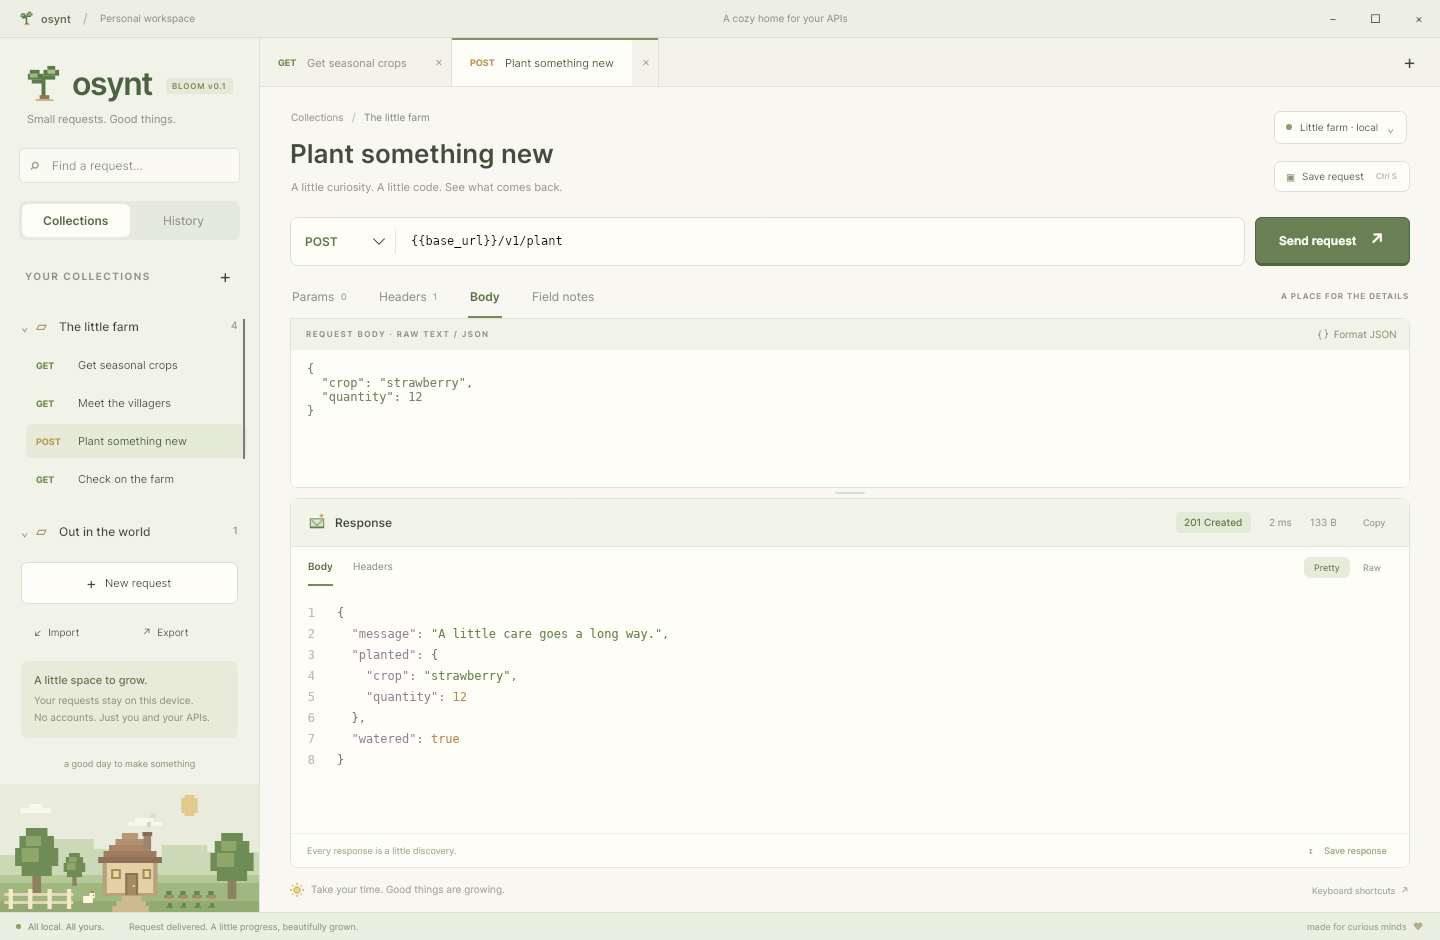
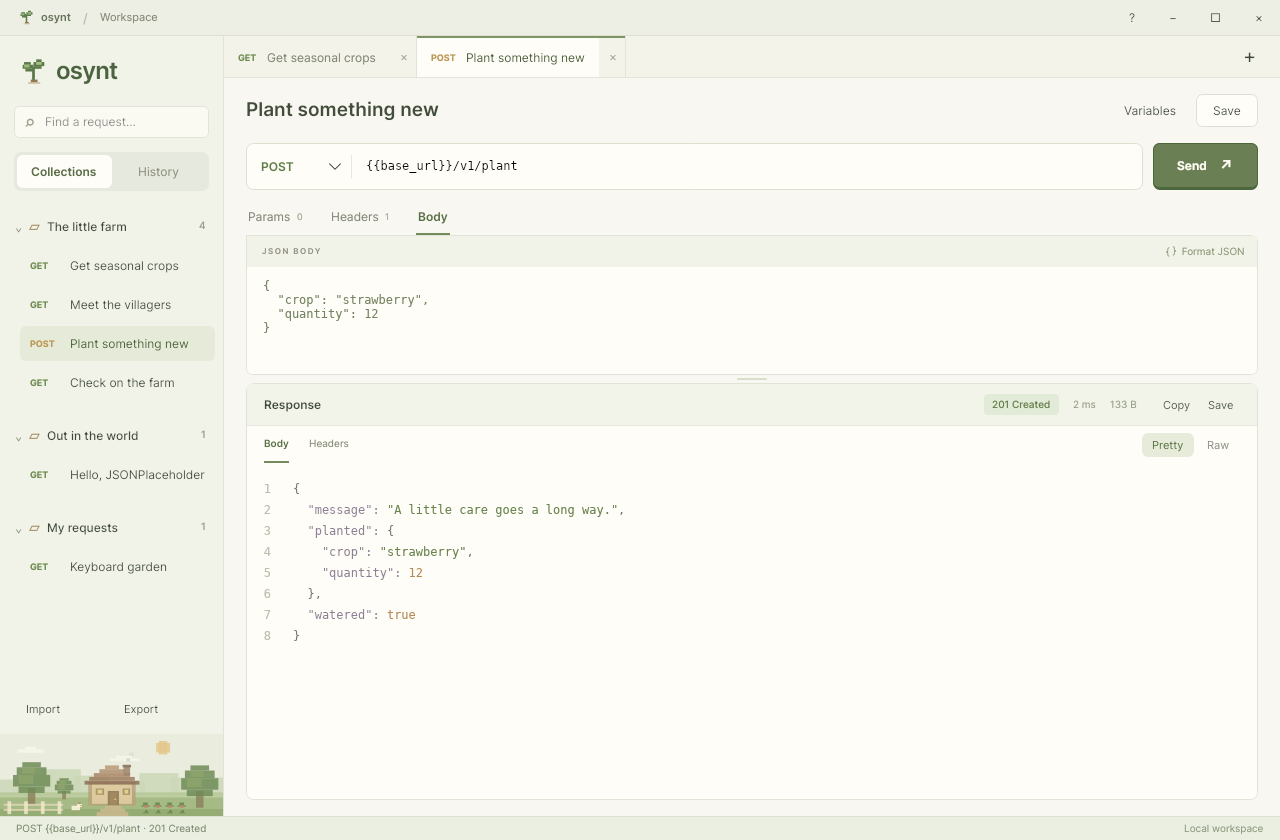
Document local API workflow and verify compact and empty-response layouts

diff --git a/tests/Osynt.Checks/DesktopChecks.cs b/tests/Osynt.Checks/DesktopChecks.cs
@@ -145,6 +145,30 @@ internal static partial class Program
             Equal(201, sendingTab.Response!.StatusCode);
             Equal(200, uiWorkspace.Selected.Response!.StatusCode);
         });
+        Check("Successful responses without content explicitly show an empty body message", () =>
+        {
+            var previous = uiWorkspace.Selected.Response;
+            uiWorkspace.Selected.Response = new(200, "OK", 1, 0, "", []);
+            Dispatcher.UIThread.RunJobs();
+            True(window.GetVisualDescendants().OfType<TextBlock>().Single(t => t.Text == "No response body").IsEffectivelyVisible);
+            Equal("200 OK", uiWorkspace.Selected.Status);
+            uiWorkspace.Selected.Response = previous;
+        });
+        Check("The compact window keeps request controls and response status on screen", () =>
+        {
+            window.Width = 980;
+            window.Height = 640;
+            Dispatcher.UIThread.RunJobs();
+            AvaloniaHeadlessPlatform.ForceRenderTimerTick();
+            foreach (var name in new[] { "UrlInput", "SendButton", "RequestName" })
+            {
+                var control = window.GetVisualDescendants().OfType<Control>().Single(c => c.Name == name);
+                var origin = control.TranslatePoint(new Point(), window)!.Value;
+                True(origin.X >= 0 && origin.Y >= 0 && origin.X + control.Bounds.Width <= window.Width && origin.Y + control.Bounds.Height <= window.Height);
+            }
+            window.Width = 1280;
+            window.Height = 840;
+        });
         if (args.Contains("--snapshot"))
         {
             var snapshotIndex = Array.IndexOf(args, "--snapshot");

diff --git a/README.md b/README.md
@@ -34,14 +34,24 @@ Windows stores the workspace in `%LOCALAPPDATA%\Osynt\workspace.json`. The Windo
 
 ### Try it
 
-The app starts a small **loopback-only Harvest API** on a free port and sends the first sample request. Everything in “The little farm” works without internet access:
+The app opens a blank **GET** request with no query parameters, custom headers, or body. Paste your API URL and press **Send**. Local URLs such as `localhost:8080/health` use HTTP if you omit the scheme. A successful empty health response shows **200 OK** and **No response body**.
+
+The app also starts a small **loopback-only Harvest API** on a free port. Select a sample from “The little farm” and press Send to try it without internet access:
 
 - **Get seasonal crops** — change `season` in Params, or the `{{season}}` environment variable. Try `spring`, `summer`, `fall`, or `winter`.
 - **Meet the villagers** — a friendly GET response.
 - **Plant something new** — POST an editable JSON body and get a `201 Created` response.
 - **Check on the farm** — a small health check.
 
-Paste any `http://` or `https://` URL to use your own API. Choose a method, edit query parameters and headers, and add a text or JSON body. The environment button edits variables used as `{{name}}` in URLs, parameters, headers, and bodies. Use **Use local demo** to switch back.
+Query parameters stay synchronized between the URL and Params table. Pasting another endpoint replaces the previous query parameters; editing, disabling, or deleting a row updates the URL. Repeated keys are supported, and values are encoded once. Standard headers (`Host`, `Accept`, `User-Agent`, and body length) are set automatically. JSON bodies receive `Content-Type: application/json`; explicit header overrides take precedence.
+
+The **Variables** button edits values used as `{{name}}` in URLs, parameters, headers, and bodies. No environment setup is required for a literal URL.
+
+### ASP.NET Core in WSL
+
+Use the exact address and port printed by `dotnet run` under **Now listening on**. A Windows Osynt build can connect to an API in WSL through `http://localhost:<port>/health`; no query parameters or headers are required for an ordinary health endpoint. A connection refusal usually means that nothing is listening at the selected address or port. Osynt displays the failed host and port in the response pane.
+
+If the API uses HTTPS, its WSL development certificate may need to be trusted in Windows as well. Certificate verification remains enabled; use the API's HTTP development address or configure a trusted certificate. See Microsoft's documentation on [WSL networking](https://learn.microsoft.com/en-us/windows/wsl/networking) and [ASP.NET Core development certificates in WSL](https://learn.microsoft.com/en-us/aspnet/core/security/enforcing-ssl#trust-https-certificate-from-windows-subsystem-for-linux).
 
 ### Included in the MVP
 
@@ -63,7 +73,7 @@ Paste any `http://` or `https://` URL to use your own API. Choose a method, edit
 
 ### Storage and scope
 
-Saved collections, environment variables, and request history live in `Osynt/workspace.json` under the operating system's local application data directory (`~/.local/share/Osynt` on most Linux systems). Set `OSYNT_DATA_DIR` to choose another directory. Changes to a request become part of its collection when you click **Save request**. Workspace writes are atomic; unreadable files are backed up before a replacement is written.
+Saved collections, environment variables, and request history live in `Osynt/workspace.json` under the operating system's local application data directory (`~/.local/share/Osynt` on most Linux systems). Set `OSYNT_DATA_DIR` to choose another directory. Changes to a request become part of its collection when you click **Save** beside the request name. Workspace writes are atomic; unreadable files are backed up before a replacement is written.
 
 This is a desktop MVP: no cloud sync, account system, scripts/test runner, OAuth flow, multipart uploads, WebSockets, or Postman collection compatibility yet. You can send API credentials through ordinary headers. Workspace JSON and request history are stored in plain text, including headers and bodies; use disposable credentials while trying the MVP. Response saving exports the displayed text, not binary downloads.
 
@@ -75,7 +85,7 @@ dotnet build --no-restore -m:1
 dotnet run --project tests/Osynt.Checks --no-build
 ```
 
-The integration runner checks request construction, real local GET/POST responses, errors, cancellation, the preview size limit, persistence, import/export, and keyboard interactions in the actual Avalonia window. It returns a nonzero exit code on failure. It needs loopback socket access, but no external API or display server.
+The integration runner checks request construction, bidirectional query editing, blank request defaults, automatic headers, real ASP.NET Core GET/POST and empty health responses, redirects, connection errors, cancellation, persistence, import/export, compact layouts, and keyboard interactions in the actual Avalonia window. It returns a nonzero exit code on failure. It needs loopback socket access, but no external API or display server. The ASP.NET framework reference is confined to the test project.
 
 Render desktop previews with Avalonia's headless Skia renderer:
 
